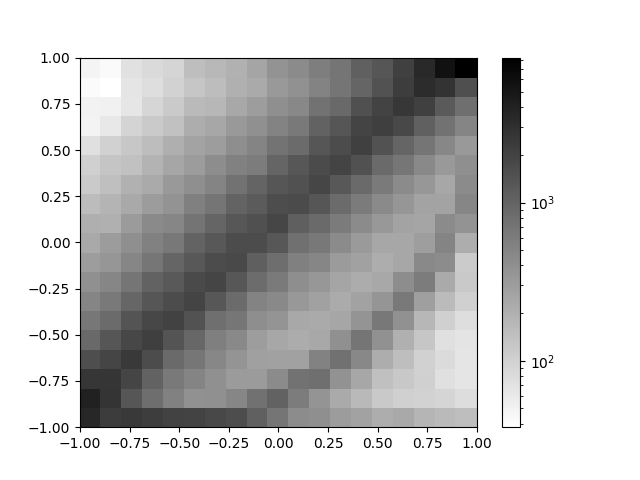
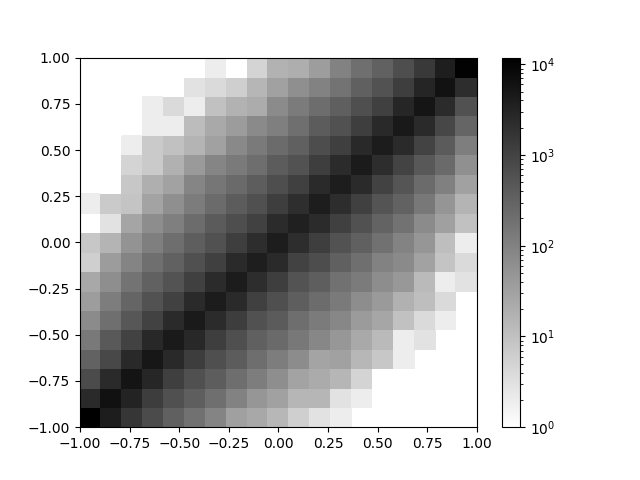
merged

diff --git a/sources/ORCA/MCGenerator.py b/sources/ORCA/MCGenerator.py
@@ -38,13 +38,13 @@ class Generator:
 		# now define function to find reco zenith
 		def find_reco_zenith(exp, true_energy):
 			# bounds on IC energy
-			if true_energy > 53 or true_energy < 1.85:
-				return -1
+			true_energy = min(53, true_energy)
+			true_energy = max(1.85, true_energy)
 
 			# find sigma
 			sigma = exp(true_energy)
 			# random generate reco error
-			reco_zenith_error = np.random.normal(sigma, 0) * np.pi / 180
+			reco_zenith_error = np.random.normal(0, sigma) * np.pi / 180
 
 			return reco_zenith_error
 
@@ -65,17 +65,17 @@ class Generator:
 				ORCA_E_reco = find_reco_energy(self.G_E_ca, energy)
 				ORCA_W_MC = N_ORCA / N_IC * self.MC["weight"][i]
 				if int(self.MC["pdg"][i]) > 0:
-					ORCA_zen_reco = self.MC["reco_zenith"][i] - find_reco_zenith(e_error, energy)
+					ORCA_zen_reco = self.MC["true_zenith"][i] - find_reco_zenith(e_error, energy)
 				else:
-					ORCA_zen_reco = self.MC["reco_zenith"][i] - find_reco_zenith(eb_error, energy)
+					ORCA_zen_reco = self.MC["true_zenith"][i] - find_reco_zenith(eb_error, energy)
 			elif self.MC["pid"][i] == 1:
 				# use track gaussian params
 				ORCA_E_reco = find_reco_energy(self.G_E_tr, energy)
 				ORCA_W_MC = N_ORCA / N_IC * self.MC["weight"][i]
 				if int(self.MC["pdg"][i]) > 0:
-					ORCA_zen_reco = self.MC["reco_zenith"][i] - find_reco_zenith(mu_error, energy)
+					ORCA_zen_reco = self.MC["true_zenith"][i] - find_reco_zenith(mu_error, energy)
 				else:
-					ORCA_zen_reco = self.MC["reco_zenith"][i] - find_reco_zenith(mub_error, energy)
+					ORCA_zen_reco = self.MC["true_zenith"][i] - find_reco_zenith(mub_error, energy)
 			else:
 				print("invalid pid detected")
 				exit(1)

diff --git a/sources/ORCA/plot.py b/sources/ORCA/plot.py
@@ -44,7 +44,8 @@ def plot_mig_hist(binnum):
     plt.savefig("./MigMatPlots/Cascades/CascadeMigMatBin{}.png".format(binnum))
     plt.close()
 
-for i in range(22):z
+# for i in range(22):
+#     plot_mig_hist(i)
 
 def plot_zenith_errors():
     e, ebar, mu, mubar = util.get_zenith_error()
@@ -126,4 +127,4 @@ def plot_zenith_reco():
     # plt.show()
     plt.savefig("ICMC_coszen_with_ORCA_Reco")
 
-# plot_zenith_reco()
+plot_zenith_reco()

diff --git a/sources/ORCA/analyze.py b/sources/ORCA/analyze.py
@@ -5,7 +5,6 @@ import pandas as pd
 from matplotlib import pyplot as plt
 from params import *
 import util
-
 tracks = dgt.Digitalizer(input_track, input_scale)
 cascades = dgt.Digitalizer(input_cascade, input_scale)
 
